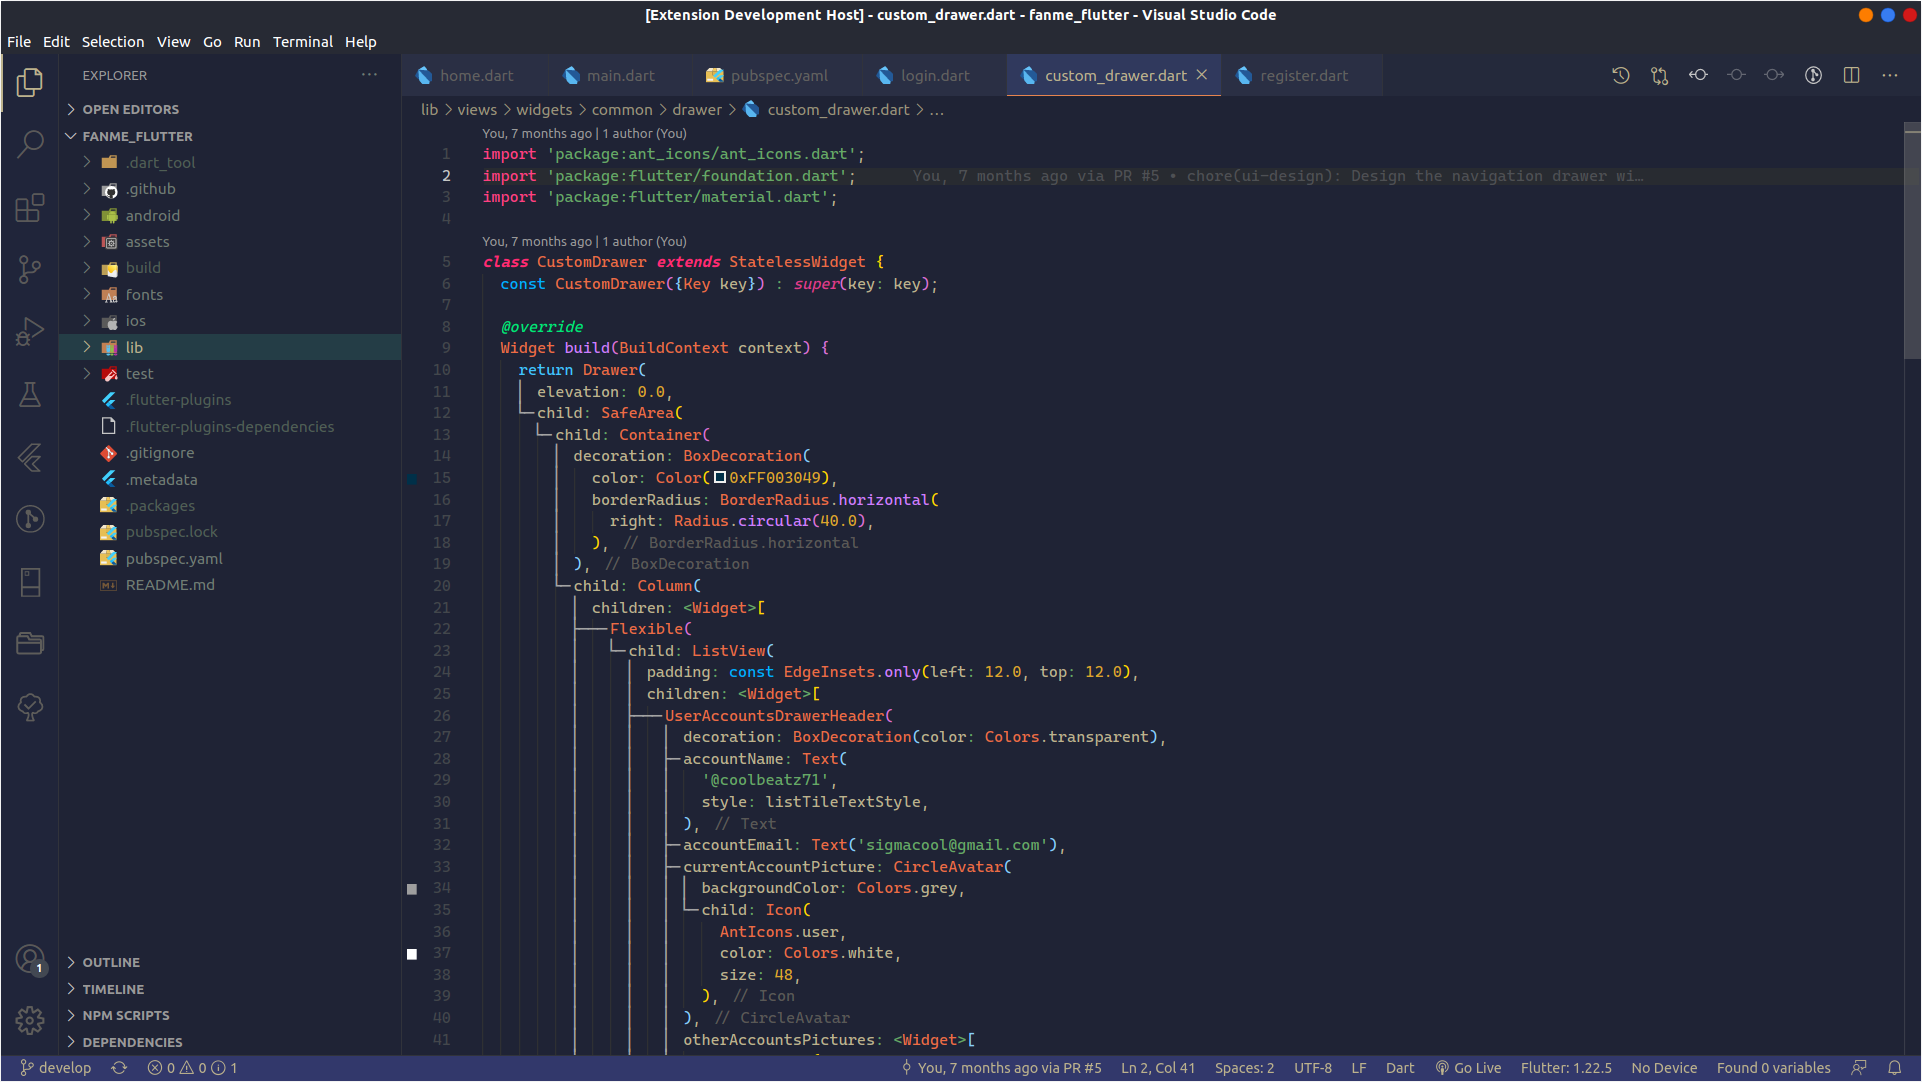
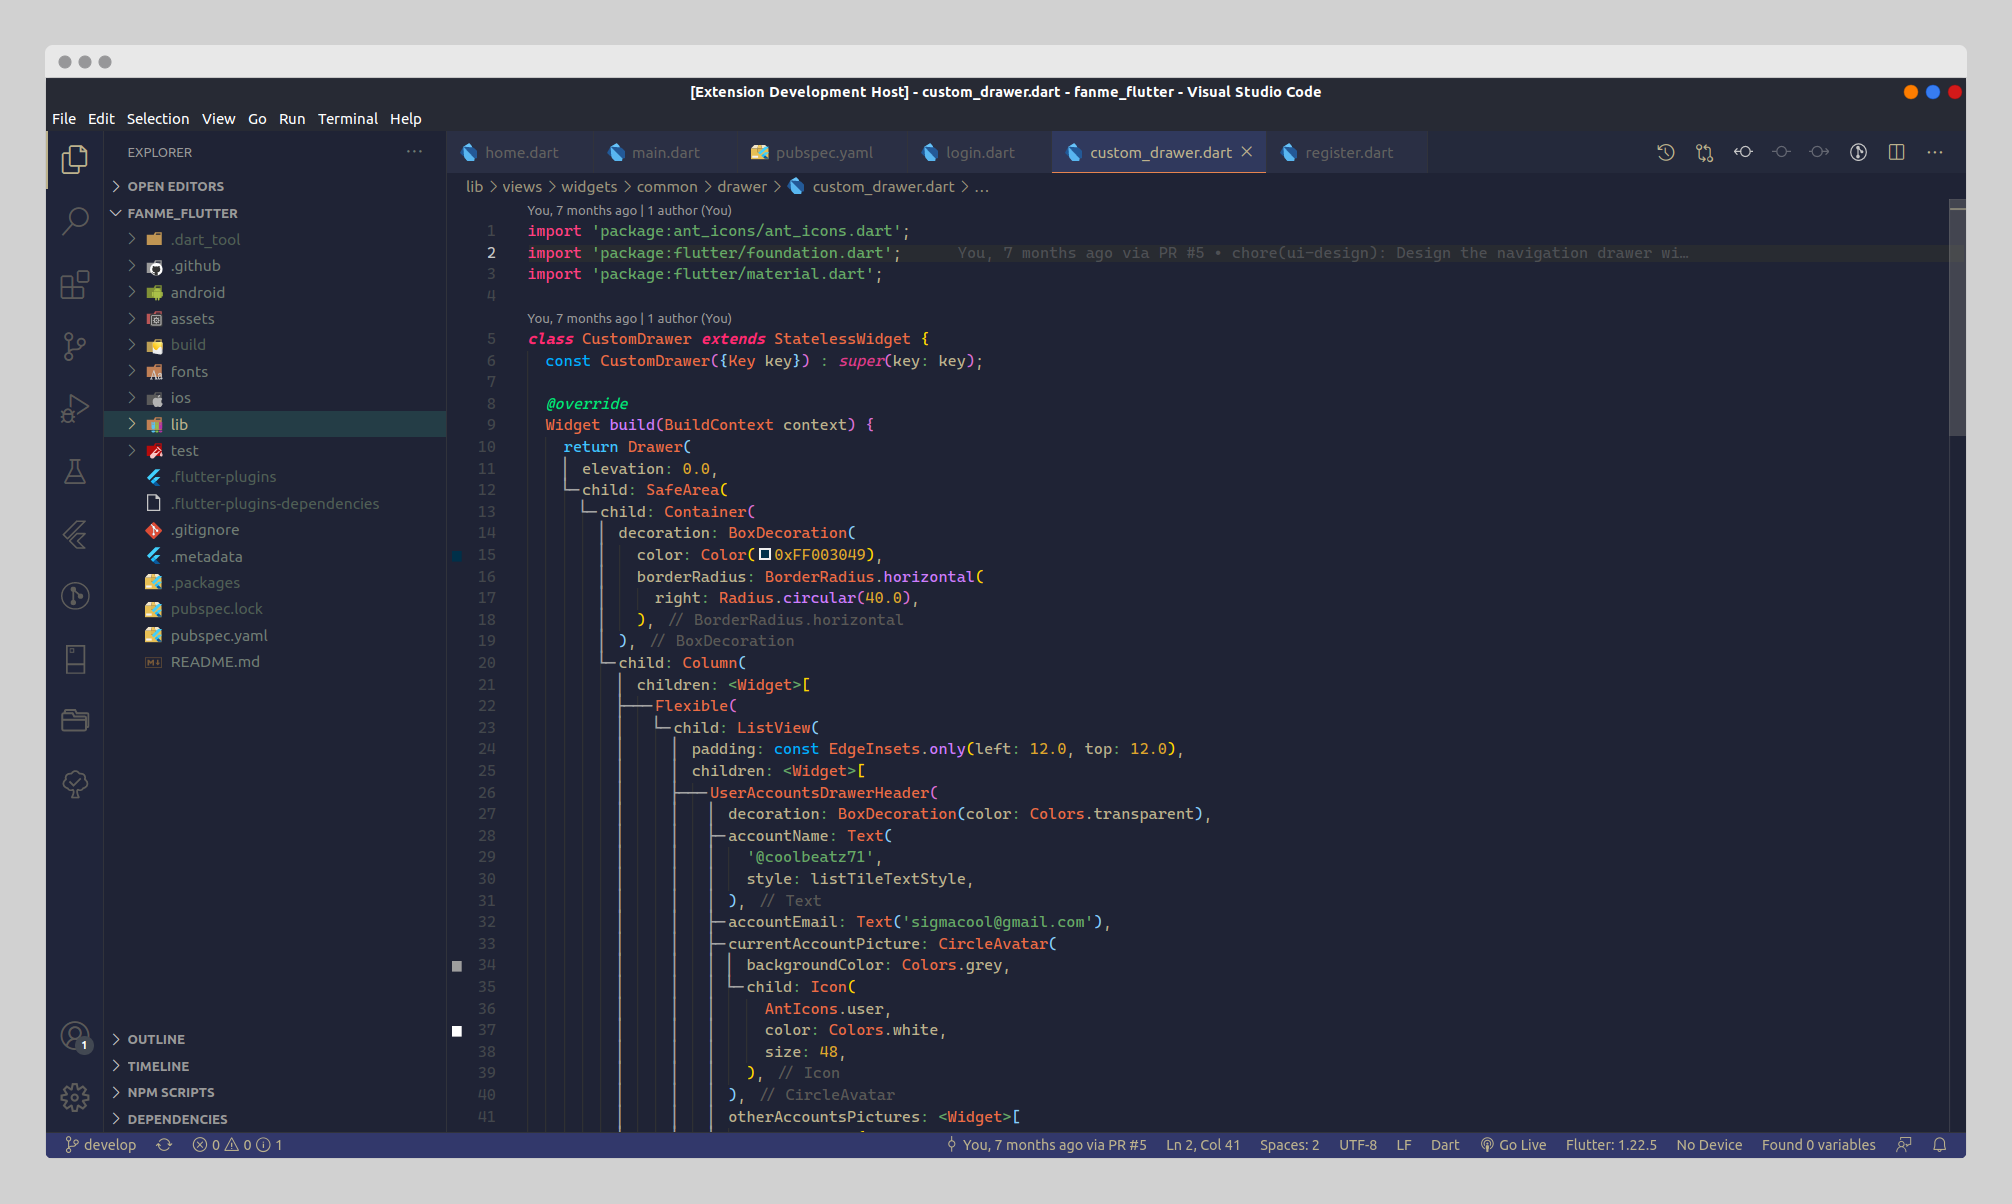
Create a better image screenshot and update the READMe

diff --git a/README.md b/README.md
@@ -2,9 +2,20 @@
 
 The coolest dark theme for Dart and Flutter based on [One Dark Pro](https://marketplace.visualstudio.com/items?itemName=zhuangtongfa.Material-theme) and [Bear Theme](https://marketplace.visualstudio.com/items?itemName=dahong.theme-bear) theme extension
 
+### Screenshot
+
+#### The theme
+
+https://raw.githubusercontent.com/coolbeatz71/coolest-dark/develop/img/screenshot.png
+
+#### The color scheme
+
+https://raw.githubusercontent.com/coolbeatz71/coolest-dark/develop/img/screenshot-scheme.png
+
 ### To install
 
-Search for "Coolest Dark" in marketplace in VS Code, and set the color theme.
+- Search for "Coolest Dark" in marketplace in VS Code, and set the color theme.
+- The font used on those screenshots is ["cascadia code"](https://github.com/microsoft/cascadia-code/releases)
 
 ### To contribute
 
